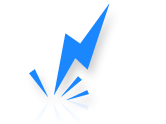
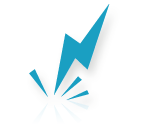
Debugging with Age Preference

diff --git a/App/components/Slides.js b/App/components/Slides.js
@@ -14,7 +14,7 @@ class Slides extends Component {
                   <Image 
                   resizeMode='contain'
                   source={require('../images/sparkLogo.png')} style={{width: 310 }}/>
-                  <Image source={require('../images/Spark.png')} style={{width: 160, height: 168, marginLeft: 60 }}/>
+                  <Image source={require('../images/Spark.png')} style={{width: 140, height: 150, marginLeft: 50 }}/>
                   <Button 
                   title="Login" 
                   raised buttonStyle={styles.buttonStyle} 
@@ -90,7 +90,7 @@ const styles = {
     width: null,
 },
   buttonStyle: {
-    backgroundColor: '#0288D1',
+    backgroundColor: '#34799b',
     marginTop: 15,
     width: 100
   }

diff --git a/App/components/GoShopping/GoShopping.js b/App/components/GoShopping/GoShopping.js
@@ -203,7 +203,7 @@ export default class Shopping extends Component {
   }
 
   render() {
-    if (!this.state.newCards.length) {
+    if (!this.state.newCards.length > 0) {
       console.log('!_.max', this.state.cards);
       return (
         <View style={styles.container}>
